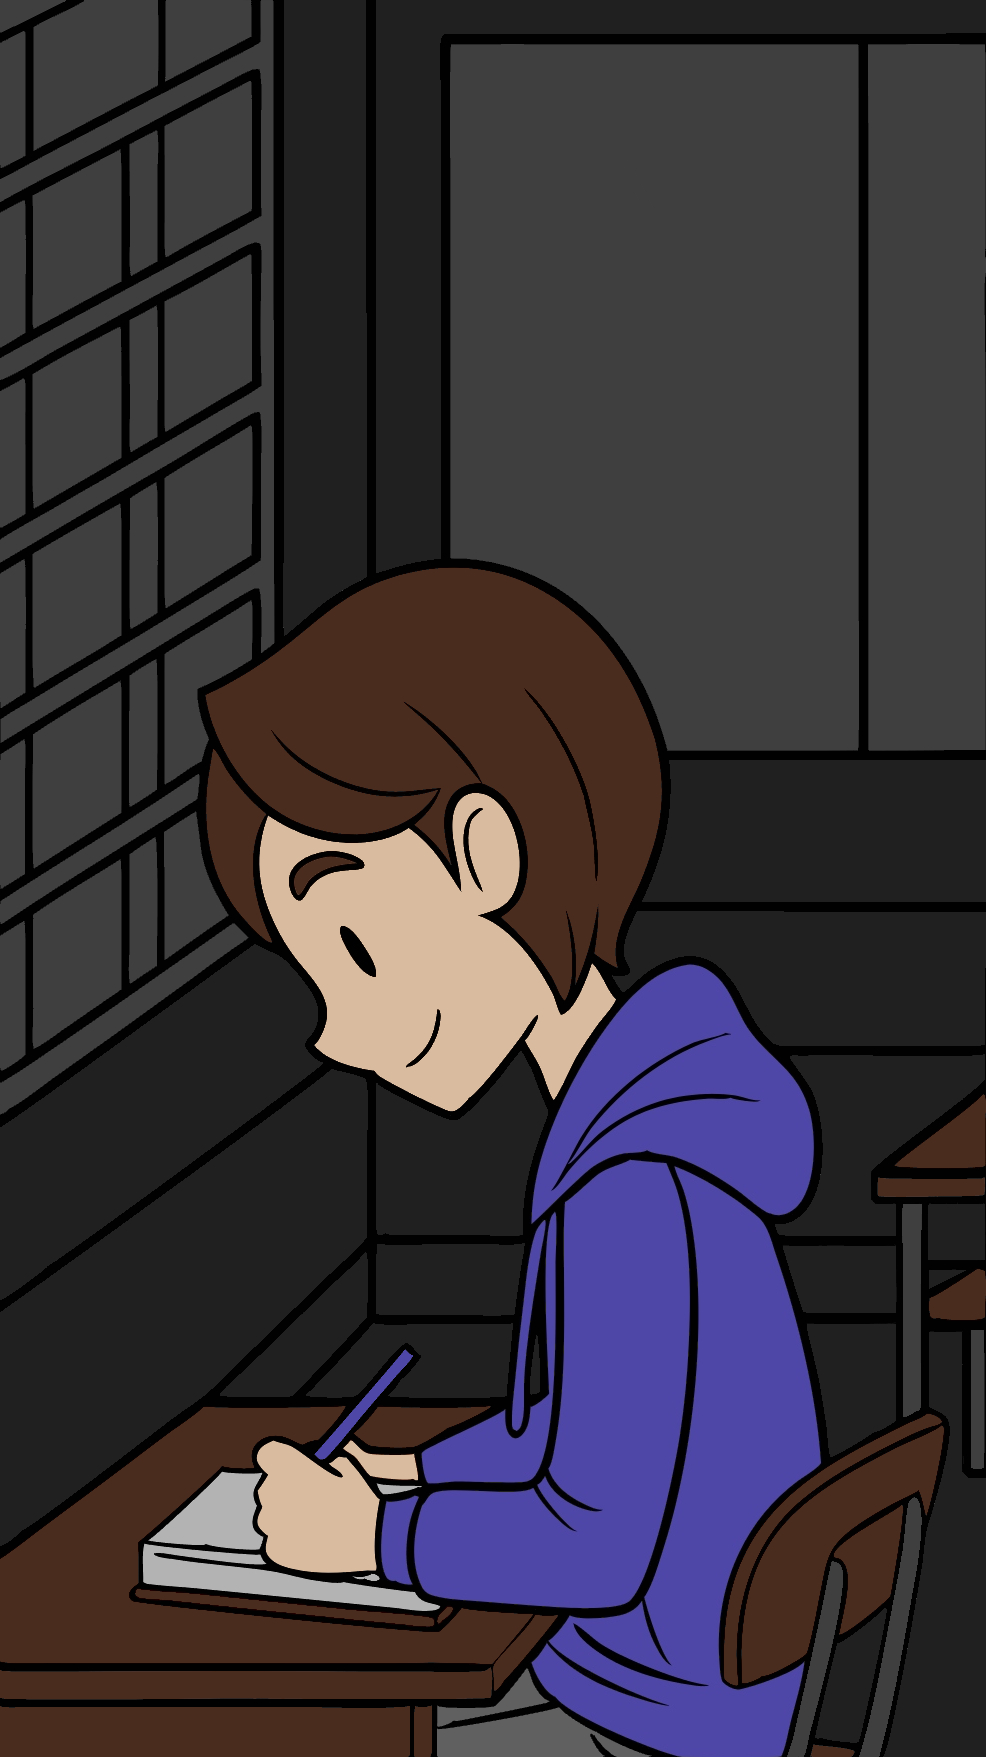
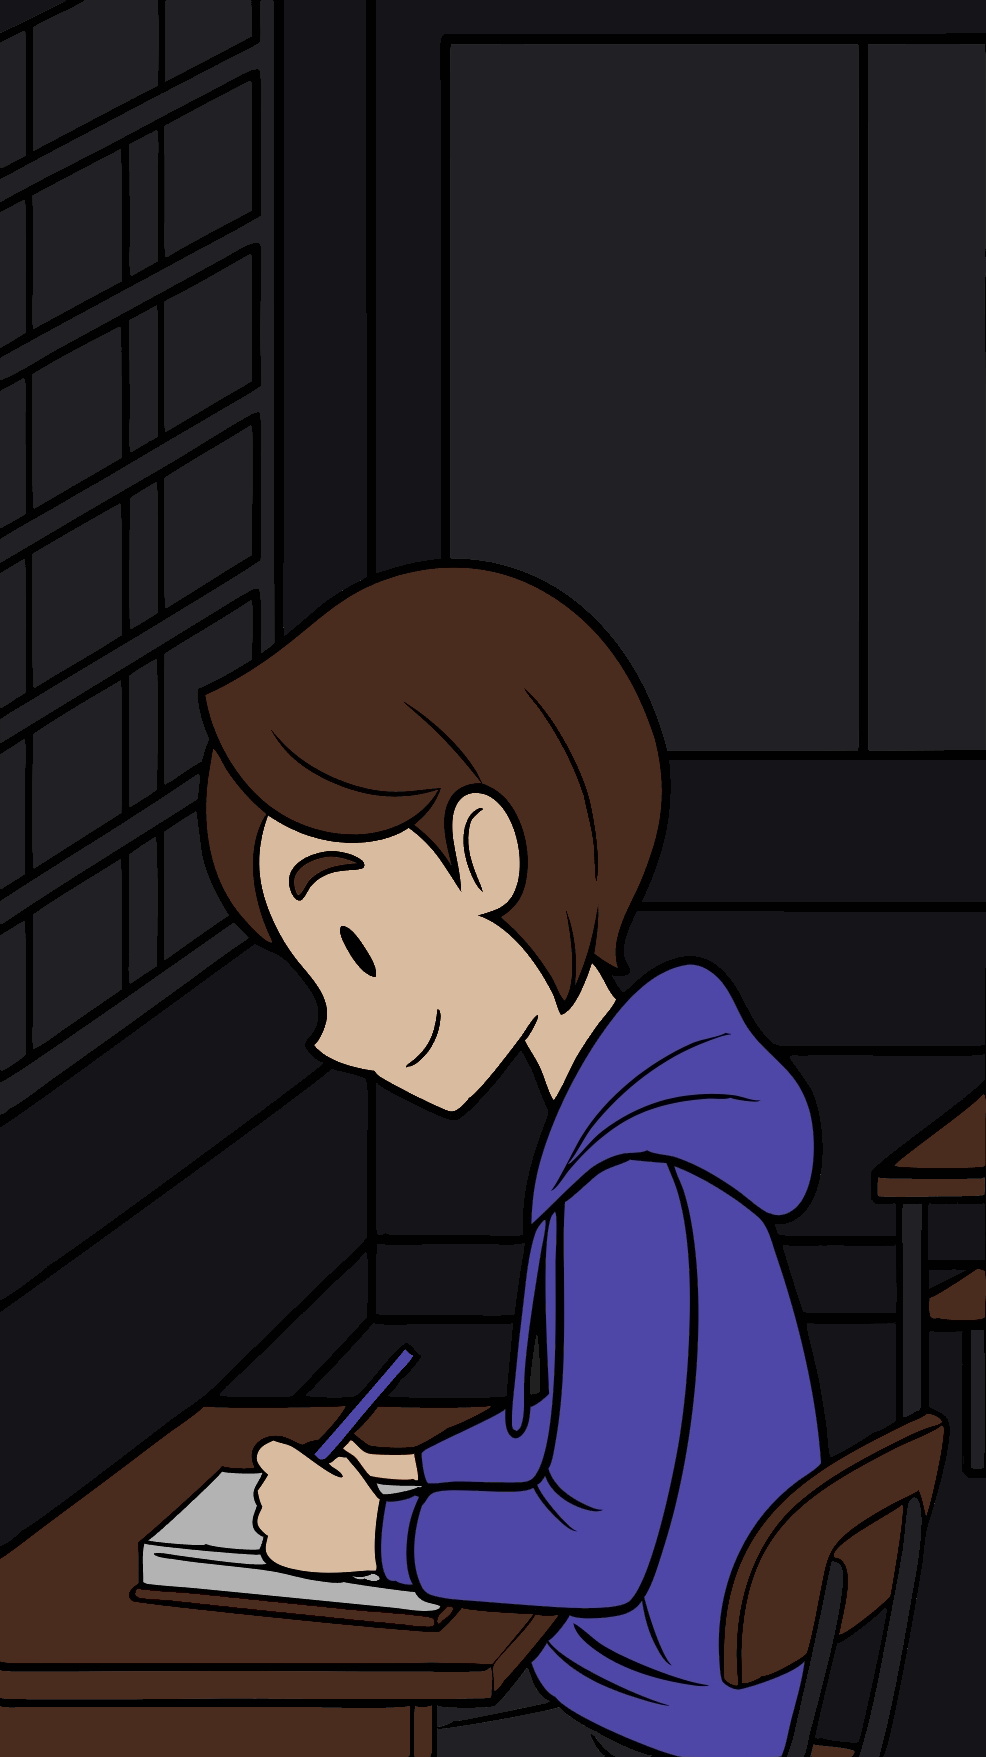
style: deixando modo escuro mais azul e bordas mais finas.

diff --git a/src/components/home/LinkContainer.tsx b/src/components/home/LinkContainer.tsx
@@ -21,7 +21,7 @@ const LinkContainer = () => {
     <div>
       <div className="h-full text-textColor">
         <div
-          className={`border-b-2  border-borderColor w-full p-2 px-3 hover:bg-background03 cursor-pointer ${
+          className={`border-b-[1px]  border-borderColor w-full p-2 px-3 hover:bg-background03 cursor-pointer ${
             section === "students" ? "bg-background03" : "bg-background02"
           }`}
           onClick={() => {
@@ -38,7 +38,7 @@ const LinkContainer = () => {
         </div>
 
         {/* <div
-          className={`border-b-2  border-borderColor w-full p-2 px-3 hover:bg-background03 cursor-pointer ${
+          className={`border-b-[1px] border-borderColor w-full p-2 px-3 hover:bg-background03 cursor-pointer ${
             section === "planning" ? "bg-background03" : "bg-background02"
           }`}
         >
@@ -52,7 +52,7 @@ const LinkContainer = () => {
         </div> */}
 
         <div
-          className={`border-b-2  border-borderColor w-full p-2 px-3 hover:bg-background03 cursor-pointer ${
+          className={`border-b-[1px]  border-borderColor w-full p-2 px-3 hover:bg-background03 cursor-pointer ${
             section === "profile" ? "bg-background03" : "bg-background02"
           }`}
           onClick={() => {
@@ -69,7 +69,7 @@ const LinkContainer = () => {
       </div>
 
       <div
-        className={`border-b-2 border-borderColor w-full px-3 text-textColor hover:bg-background03 cursor-pointer flex justify-start items-center`}
+        className={`border-b-[1px] border-borderColor w-full px-3 text-textColor hover:bg-background03 cursor-pointer flex justify-start items-center`}
         onClick={() => toggleTheme()}
       >
         <div

diff --git a/src/components/layout/SideBarDesktop.tsx b/src/components/layout/SideBarDesktop.tsx
@@ -29,19 +29,19 @@ const SideBarDesktop = ({ children }: SideBarDesktopProps) => {
           >
             {user && (
               <div
-                className="hidden relative bg-background02 border-x-2 border-borderColor shadow-md lg:block 
+                className="hidden relative bg-background02 border-x-[1px] border-borderColor shadow-sm lg:block 
              lg:w-[28%] xl:w-[25%] 2xl:w-[25%]"
               >
                 <PerfilContainer username={user.username} />
                 <LinkContainer />
               </div>
             )}
-            <div className="min-h-full w-full bg-background02 md:border-x-2 md:border-borderColor md:shadow-md md:overflow-y-scroll md:overflow-hidden scroll-style lg:w-[40%] xl:w-[45%] 2xl:w-[45%]">
+            <div className="min-h-full w-full bg-background02 md:border-x-[1px] md:border-borderColor md:shadow-sm md:overflow-y-scroll md:overflow-hidden scroll-style lg:w-[40%] xl:w-[45%] 2xl:w-[45%]">
               {children}
             </div>
 
             {user && (
-              <div className="hidden min-h-full w-[20%] lg:w-[28%] xl:w-[25%] 2xl:w-[25%] bg-background02 border-x-[2px] border-borderColor shadow-md lg:block">
+              <div className="hidden min-h-full w-[20%] lg:w-[28%] xl:w-[25%] 2xl:w-[25%] bg-background02 border-x-[1px] border-borderColor shadow-sm lg:block">
                 <div
                   className={`${
                     theme === "light" ? "background-art" : "background-art-dark"

diff --git a/src/components/parents/get_subjects/NomePreparatorioParents.tsx b/src/components/parents/get_subjects/NomePreparatorioParents.tsx
@@ -14,8 +14,8 @@ const NomePreparatorioParents = ({ idAluno, aluno }: Props) => {
       {aluno.nome === undefined ? (
         <Loading />
       ) : (
-        <div className="flex flex-col gap-1.5 text-textwhite w-full rounded-md bg-background02">
-          <div className="bg-background03 h-10 text-[#303030] px-3 flex items-center rounded-md relative">
+        <div className="flex flex-col gap-1.5 text-textColor w-full rounded-md bg-background02">
+          <div className="bg-background03 h-10 px-3 flex items-center rounded-md relative">
             <p>{aluno?.nome}</p>
             <motion.div
               whileHover={{ scale: 1.05, transition: { duration: 0.05 } }}
@@ -34,7 +34,7 @@ const NomePreparatorioParents = ({ idAluno, aluno }: Props) => {
               />
             </motion.div>
           </div>
-          <div className="bg-background03 h-10 flex items-center text-[#303030] px-3 rounded-md">
+          <div className="bg-background03 h-10 flex items-center px-3 rounded-md">
             {aluno?.preparatorio?.map((prep, i) =>
               prep == "aplicação"
                 ? prep[0].toUpperCase() + prep.substring(1) + " "

diff --git a/src/components/header/Header.tsx b/src/components/header/Header.tsx
@@ -20,7 +20,7 @@ const Header = () => {
 
   return (
     <header
-      className={`flex items-center h-[8vh] w-full bg-headerColor text-textColor font-inter border-b-[1px] border-borderColor md:border-b-2 md:h-[10vh] xl:h-[100px] ${
+      className={`flex items-center h-[8vh] w-full bg-headerColor text-textColor font-inter border-b-[1px] border-borderColor  md:h-[10vh] xl:h-[100px] ${
         section === "home" || section === "login" || section === "register"
           ? "light"
           : theme

diff --git a/src/app/globals.css b/src/app/globals.css
@@ -14,16 +14,16 @@
 }
 
 .dark {
-  --background01: #151515;
-  --background02: #202020;
-  --background03: #303030;
+  --background01: #101014;
+  --background02: #151519;
+  --background03: #202025;
   --cor-icones: #9c97d6;
   --roxo-minerva: #4f47a8da;
   --text-color: #dfdfdf;
   --input-text: #b6b6b6;
   --button-hover: #584ebd;
   --border-color: #363636;
-  --header-color: #202020;
+  --header-color: #151519;
   --error-color: #da2323;
 }
 

diff --git a/src/components/home/PerfilContainer.tsx b/src/components/home/PerfilContainer.tsx
@@ -7,7 +7,7 @@ type PerfilProps = {
 
 const PerfilContainer = ({ username }: PerfilProps) => {
   return (
-    <Container className="border-b-2 border-borderColor">
+    <Container className="border-b-[1px] border-borderColor">
       {username && (
         <div className="flex items-center justify-center">
           <div className="flex items-center text-textColor justify-center w-full gap-2">
